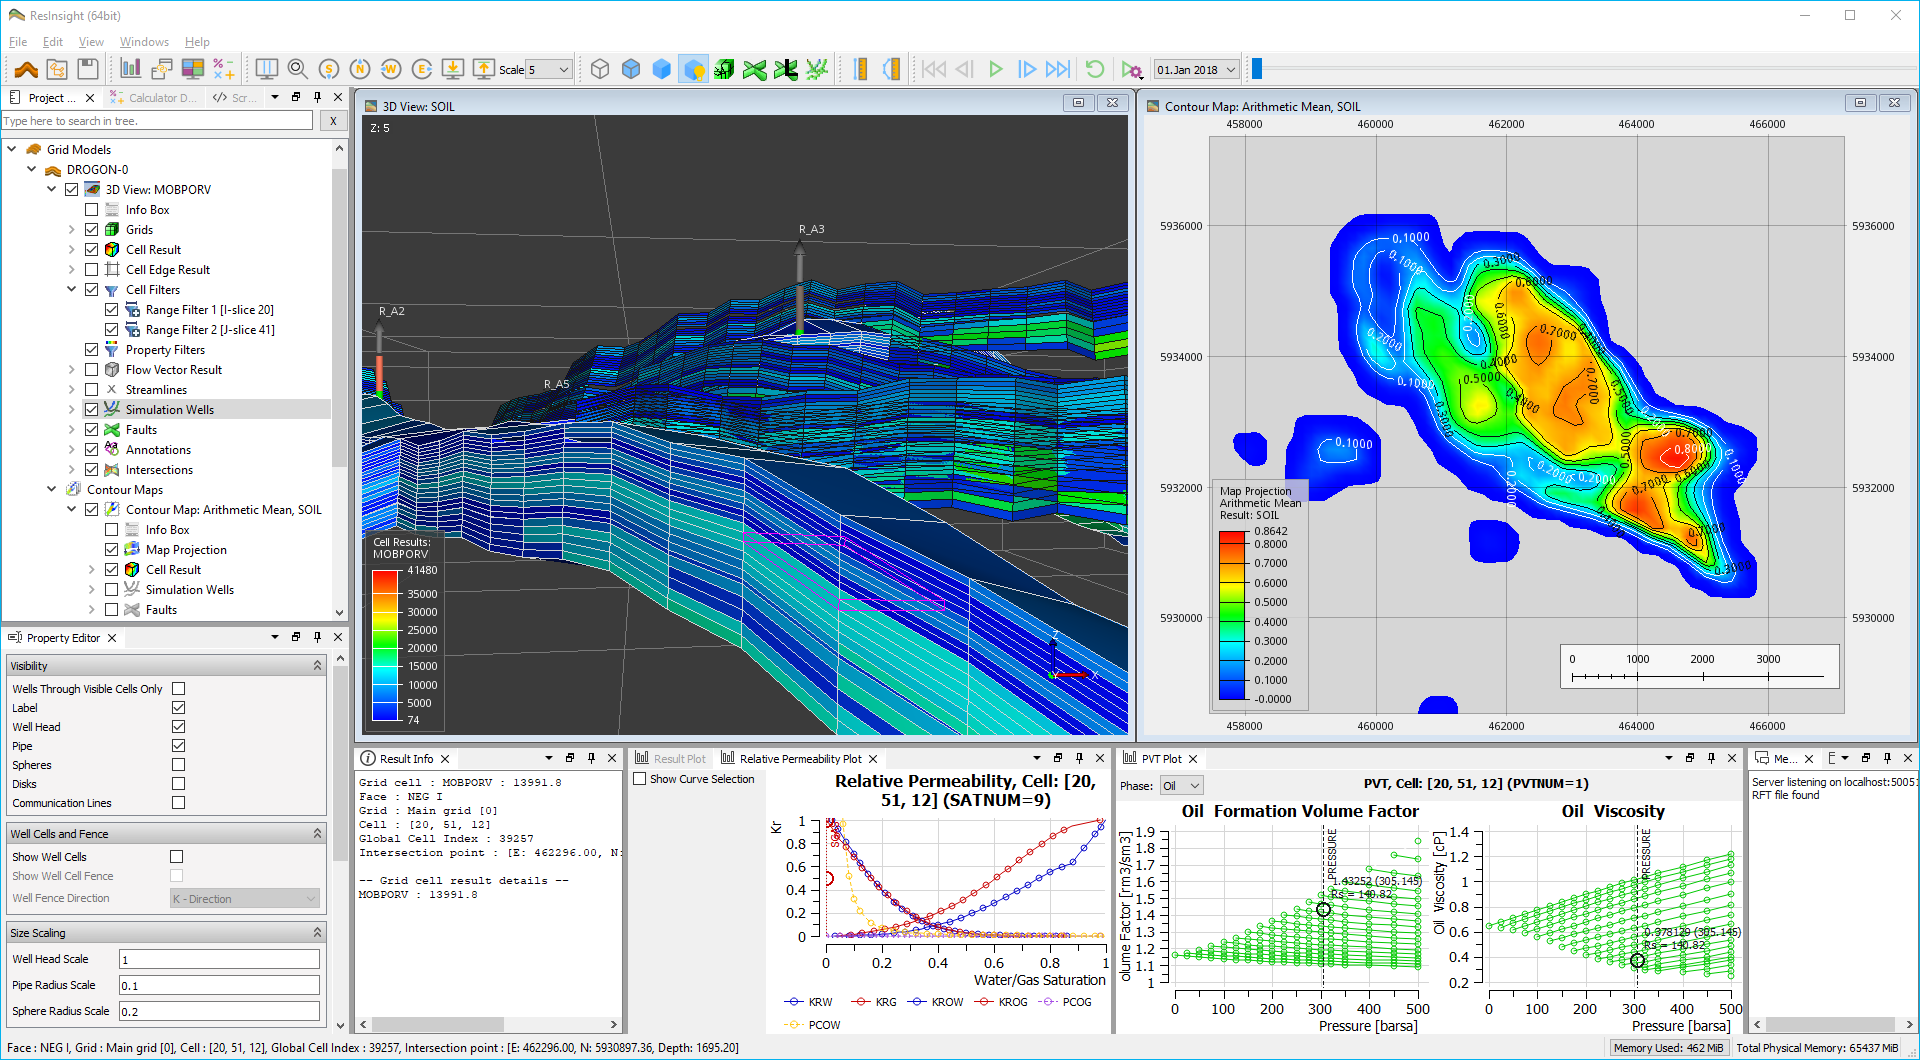
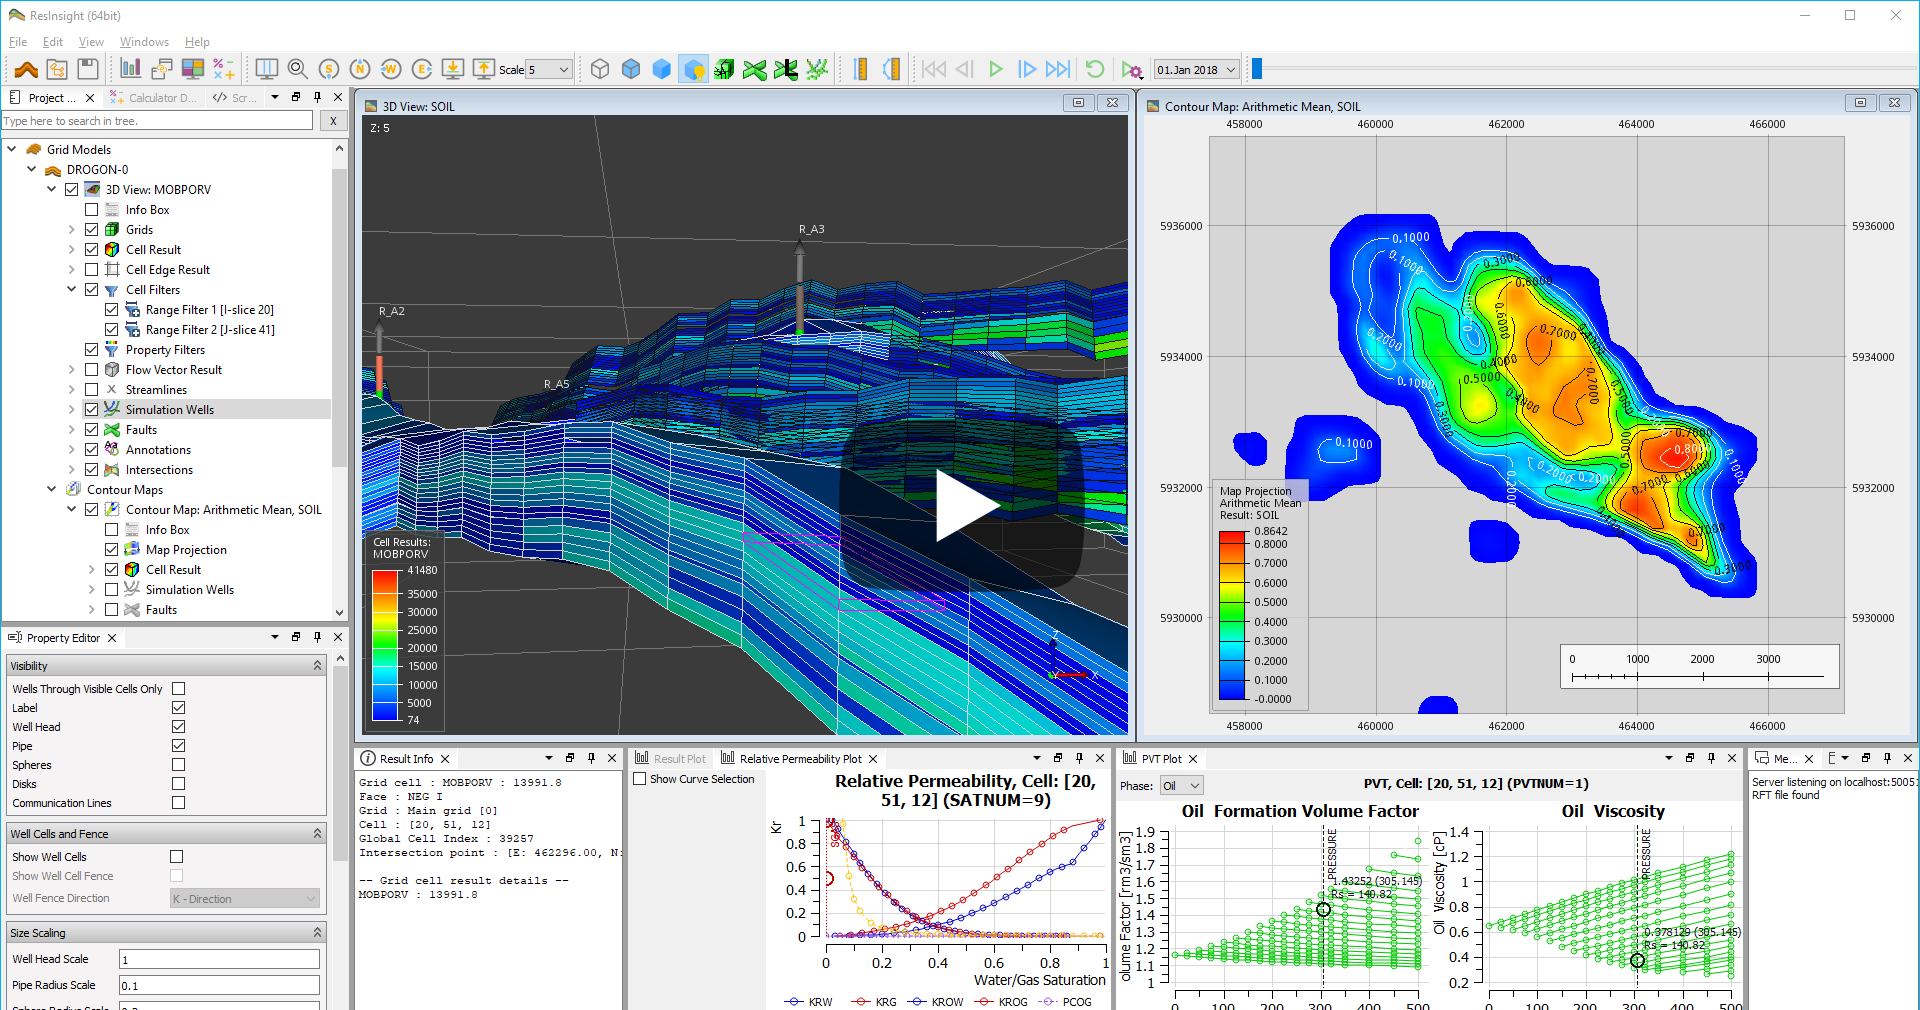
Added ADTF to showcase section and added video link for Resinsight to showcase section

diff --git a/README.md b/README.md
@@ -118,6 +118,7 @@ know it from Visual Studio.
   - [PRE Workbench](#pre-workbench)
   - [RDE – Robox Development Environment](#rde--robox-development-environment)
   - [ResInsight](#resinsight)
+  - [ADTF 3](#adtf-3)
 - [Alternative Docking System Implementations](#alternative-docking-system-implementations)
   - [KDDockWidgets](#kddockwidgets)
   - [QtitanDocking](#qtitandocking)
@@ -572,7 +573,25 @@ user interface for its ResInsight users.
 
 [read more...](https://resinsight.org/)
 
-![ResInsight](doc/showcase_resinsight.png)
+[![ResInsight](doc/showcase_resinsight.png)](https://www.youtube.com/watch?v=HzLaQ1p6AUc)
+
+### [ADTF 3](https://www.digitalwerk.net/adtf/)
+
+The Automotive Data and Time-Triggered Framework was designed as a Rapid Prototyping Toolset, Simulation Framework and Test- and Measurement Tool. It is meant for:
+
+- Developing and testing ADAS and HAD components
+- Recording of vehicle data for visualisation
+- Simulation of complex scenarios in SIL/HIL test environments
+
+The software features time-based processing of multiple data streams and graphical editing of dynamic filter graphs. It also includes an SDK for custom plug-ins and reusable components, as well as components for data visualization in both 2D and 3D. This is was the 
+[manual](https://support.digitalwerk.net/adtf/v3/adtf_html/page_adtf_xsystem_plugin.html)
+says about the switch to Qt Advanced Docking:
+
+> After several minor improvements the Qt5 ADTF XSystem uses the Advanced Docking System for Qt since ADTF 3.10.0 for more convenience and usability regarding layouting, docking and embedding several widgets.
+
+[read more...](https://support.digitalwerk.net/adtf/v3/adtf_html/index.html)
+
+![ADTF](doc/showcase_adtf.png)
 
 ## Alternative Docking System Implementations
 
